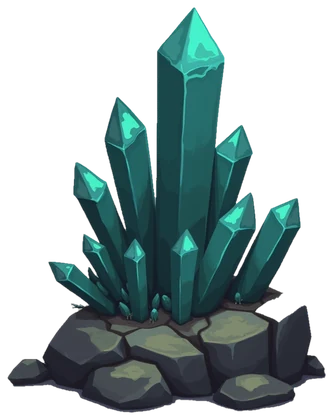
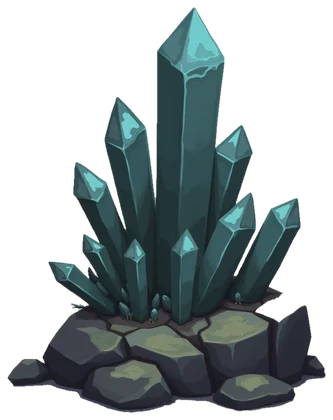
feat(depth-v2): Mine finds v2 - real mining pickaxe, muted deep material, new group layout
- The battle-axe prop is dropped from Mine (kept out of the repo in
  out/next/items/archive/ as battle-axe); a real double-pointed mining
  pickaxe is generated in the accepted Mine style (chroma-key background
  so its baked shadow separates by hue): mining-pickaxe.webp.
- deep-material: crystals muted to a cold mineral blue-green (less
  saturation, no inner glow); stone base unchanged.
- Layout: asymmetric group in the right half instead of a column -
  ore sample upper right, pickaxe mid right, ore cargo as the heavy
  lower-right base (largest), deep material as a small accent low by the
  tunnel side; captions above/below per item, never inside the tunnel
  mouth, not pinned to the edge.
- tests: accumulation order uses mining-pickaxe.

diff --git a/depth-v2/poc-mine.js b/depth-v2/poc-mine.js
@@ -21,19 +21,21 @@ import { LOCALE } from './route.js';
 const ASSETS = '/assets/depth/discovery/mine/';
 /* at — локальный прогресс шахты, с которого находка лежит на странице;
    x, y — центр предмета в долях кадра; h — высота предмета в долях высоты
-   кадра; rot — постоянный наклон, градусы. Правая часть кадра: слева —
-   основной текст шахты, в центре — устье, вагонетка и рельсы. */
+   кадра (мешок — самый тяжёлый, кристаллы — мелкий акцент); rot — постоянный
+   наклон; cap — с какой стороны подпись (below / left / right).
+   Асимметричная группа в правой половине кадра: слева — основной текст
+   шахты, по центру — устье, вагонетка и рельсы. */
 const ITEMS = [
-  { id: 'ore-sample', at: 0.10, x: 0.818, y: 0.19, h: 0.155, rot: -2,
+  { id: 'ore-sample', at: 0.10, x: 0.80, y: 0.215, h: 0.13, rot: -2, cap: 'below',
     en: ['Ore sample', 'Depth changes what the rock gives back.'],
     ru: ['Образец руды', 'С глубиной меняется то, что отдаёт порода.'] },
-  { id: 'pickaxe', at: 0.26, x: 0.9, y: 0.43, h: 0.165, rot: 1.5,
+  { id: 'mining-pickaxe', at: 0.26, x: 0.905, y: 0.42, h: 0.15, rot: 1.5, cap: 'below',
     en: ['Mining tools', 'The right tool decides what you can bring back.'],
     ru: ['Инструменты', 'От инструмента зависит, что ты сможешь унести наверх.'] },
-  { id: 'ore-cargo', at: 0.43, x: 0.808, y: 0.655, h: 0.16, rot: -1,
+  { id: 'ore-cargo', at: 0.43, x: 0.875, y: 0.79, h: 0.19, rot: -1, cap: 'above',
     en: ['The haul', 'What you extract feeds crafting and trade.'],
     ru: ['Добыча', 'То, что вынесешь наверх, идёт в ремесло и торговлю.'] },
-  { id: 'deep-material', at: 0.60, x: 0.915, y: 0.82, h: 0.155, rot: 2,
+  { id: 'deep-material', at: 0.60, x: 0.745, y: 0.82, h: 0.11, rot: 2, cap: 'below',
     en: ['Deep material', 'Richer materials wait where the risk is higher.'],
     ru: ['Глубинный материал', 'Чем ценнее находка, тем опаснее путь к ней.'] },
 ];
@@ -43,6 +45,12 @@ const CSS = `
 .poc-finds { position: fixed; inset: 0; pointer-events: none; z-index: 40; }
 .poc-find { position: absolute; left: 0; top: 0; margin: 0; display: flex; flex-direction: column; align-items: center;
   opacity: 0; transition: opacity .32s ease; }
+.poc-find--left { flex-direction: row-reverse; align-items: center; }
+.poc-find--right { flex-direction: row; align-items: center; }
+.poc-find--above { flex-direction: column-reverse; }
+.poc-find--left figcaption { margin: 0 14px 0 0; text-align: right; }
+.poc-find--right figcaption { margin: 0 0 0 14px; text-align: left; }
+.poc-find--above figcaption { margin: 0 0 10px; }
 .poc-find img { display: block; width: auto; transform: rotate(var(--rot));
   filter: drop-shadow(0 6px 9px rgba(8, 6, 4, .5)); }
 .poc-find.is-on { opacity: 1; transition: none; animation: poc-stick .22s cubic-bezier(.2, .7, .3, 1) both; }
@@ -51,7 +59,7 @@ const CSS = `
   65% { opacity: 1; transform: var(--at) scale(1.025); }
   100% { opacity: 1; transform: var(--at) scale(1); }
 }
-.poc-find figcaption { position: relative; margin-top: 12px; max-width: 24rem; text-align: center; color: #eadcbc;
+.poc-find figcaption { position: relative; margin-top: 12px; max-width: 19rem; text-align: center; color: #eadcbc;
   text-shadow: 0 1px 8px rgba(0, 0, 0, .8), 0 0 2px rgba(0, 0, 0, .6); }
 /* мягкая тень только под буквами: растворяется к краям, границы не видно */
 .poc-find figcaption::before { content: ''; position: absolute; inset: -18px -36px; z-index: -1;
@@ -72,7 +80,7 @@ export function mountMinePoc(parent) {
   const lang = LOCALE === 'ru' ? 'ru' : 'en';
   const finds = ITEMS.map((d) => {
     const fig = document.createElement('figure');
-    fig.className = 'poc-find';
+    fig.className = `poc-find poc-find--${d.cap}`;
     fig.dataset.find = d.id;
     fig.style.setProperty('--rot', `${d.rot}deg`);
     const img = new Image();
@@ -92,10 +100,16 @@ export function mountMinePoc(parent) {
     const W = innerWidth, H = innerHeight;
     for (const f of finds) {
       f.img.style.height = `${Math.round(f.d.h * H)}px`;
-      // позиция — центром предмета; подпись висит под ним
-      const x = f.d.x * W, y = f.d.y * H - (f.d.h * H) / 2;
-      const w = f.fig.offsetWidth || 0;
-      const at = `translate(${Math.round(Math.min(x - w / 2, W - w - 0.015 * W))}px, ${Math.round(y)}px)`;
+      // центр предмета — в (x, y); подпись сбоку или сверху/снизу от него
+      const fw = f.fig.offsetWidth, fh = f.fig.offsetHeight, iw = f.img.offsetWidth, ih = f.img.offsetHeight;
+      const cx = f.d.x * W, cy = f.d.y * H;
+      let left = cx - fw / 2, top = cy - fh / 2;
+      if (f.d.cap === 'below') top = cy - ih / 2;
+      if (f.d.cap === 'above') top = cy + ih / 2 - fh;
+      if (f.d.cap === 'left') left = cx + iw / 2 - fw;
+      if (f.d.cap === 'right') left = cx - iw / 2;
+      left = Math.min(Math.max(left, 0.52 * W), W - fw - 0.02 * W);
+      const at = `translate(${Math.round(left)}px, ${Math.round(top)}px)`;
       f.fig.style.setProperty('--at', at);
       f.fig.style.transform = at;
     }
